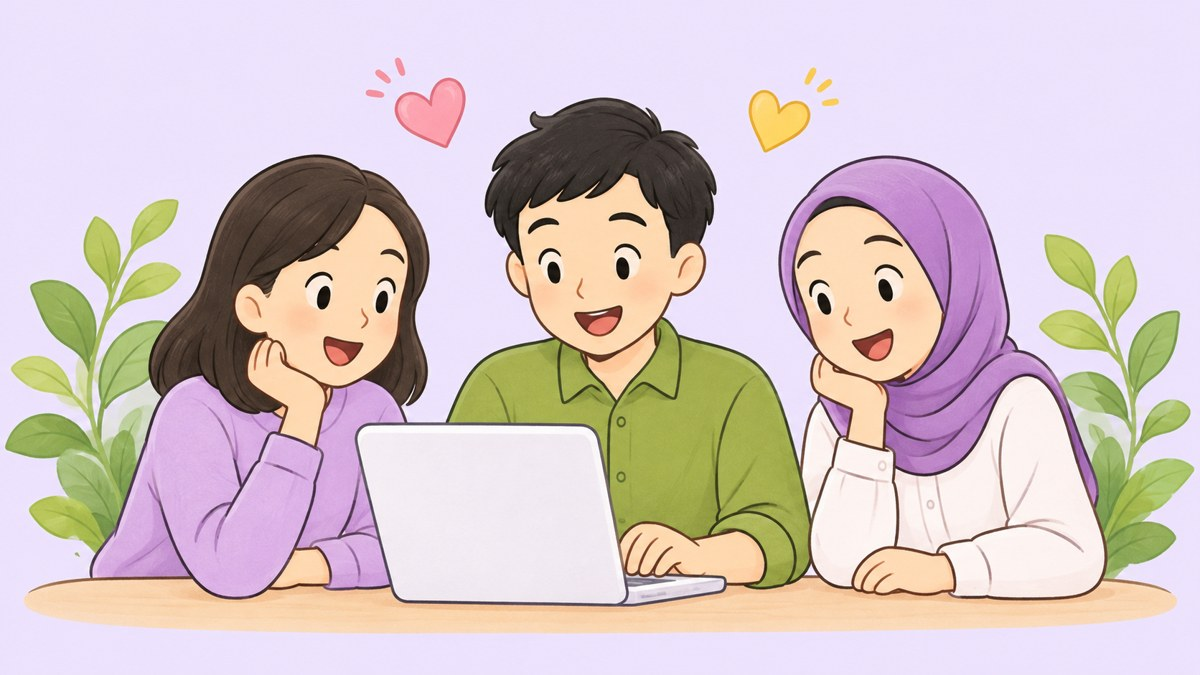
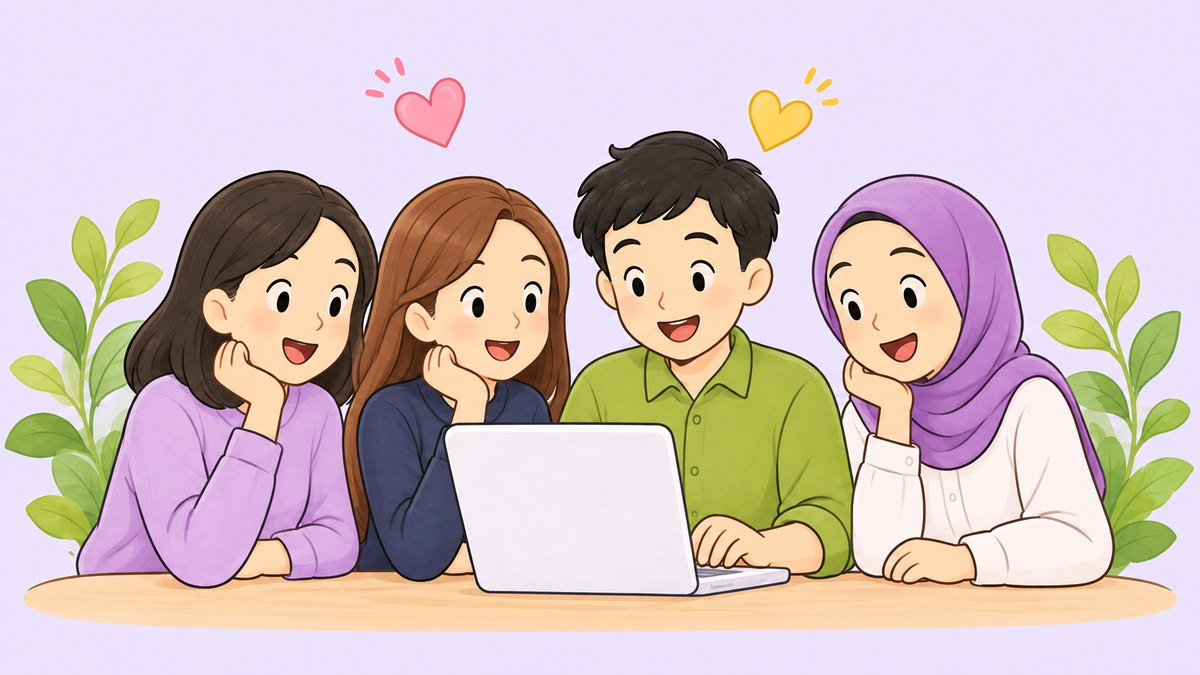
Story hero: the team of four, Wen added

diff --git a/marketing-video/materials-src/prompts/story-hero-4.md b/marketing-video/materials-src/prompts/story-hero-4.md
@@ -1,0 +1,4 @@
+Redraw the reference illustration with ONE extra person, keeping exactly the same soft, friendly children's-book art style, colours, line work, plants, hearts and light lavender (#efe9ff) background. Wide banner composition, no text anywhere.
+Keep the three existing people the same (same faces, hair, clothes, cheerful poses): the young woman with shoulder-length black hair in a lilac top, the young man with short black hair in a green shirt with his hands on the white laptop, and the young woman in a purple hijab and white blouse.
+Add a fourth person, a young woman with long, straight, warm brown hair past her shoulders and a gentle smile, wearing a dark navy top, leaning in happily with her chin on her hand like the others.
+Order from left to right: black-haired woman in lilac, the new brown-haired woman in navy, the young man in green behind the laptop, the woman in the purple hijab. All four sit together behind the same table and white laptop, close and friendly, centred, with leafy plants on both sides and two small pink and yellow hearts floating above.
